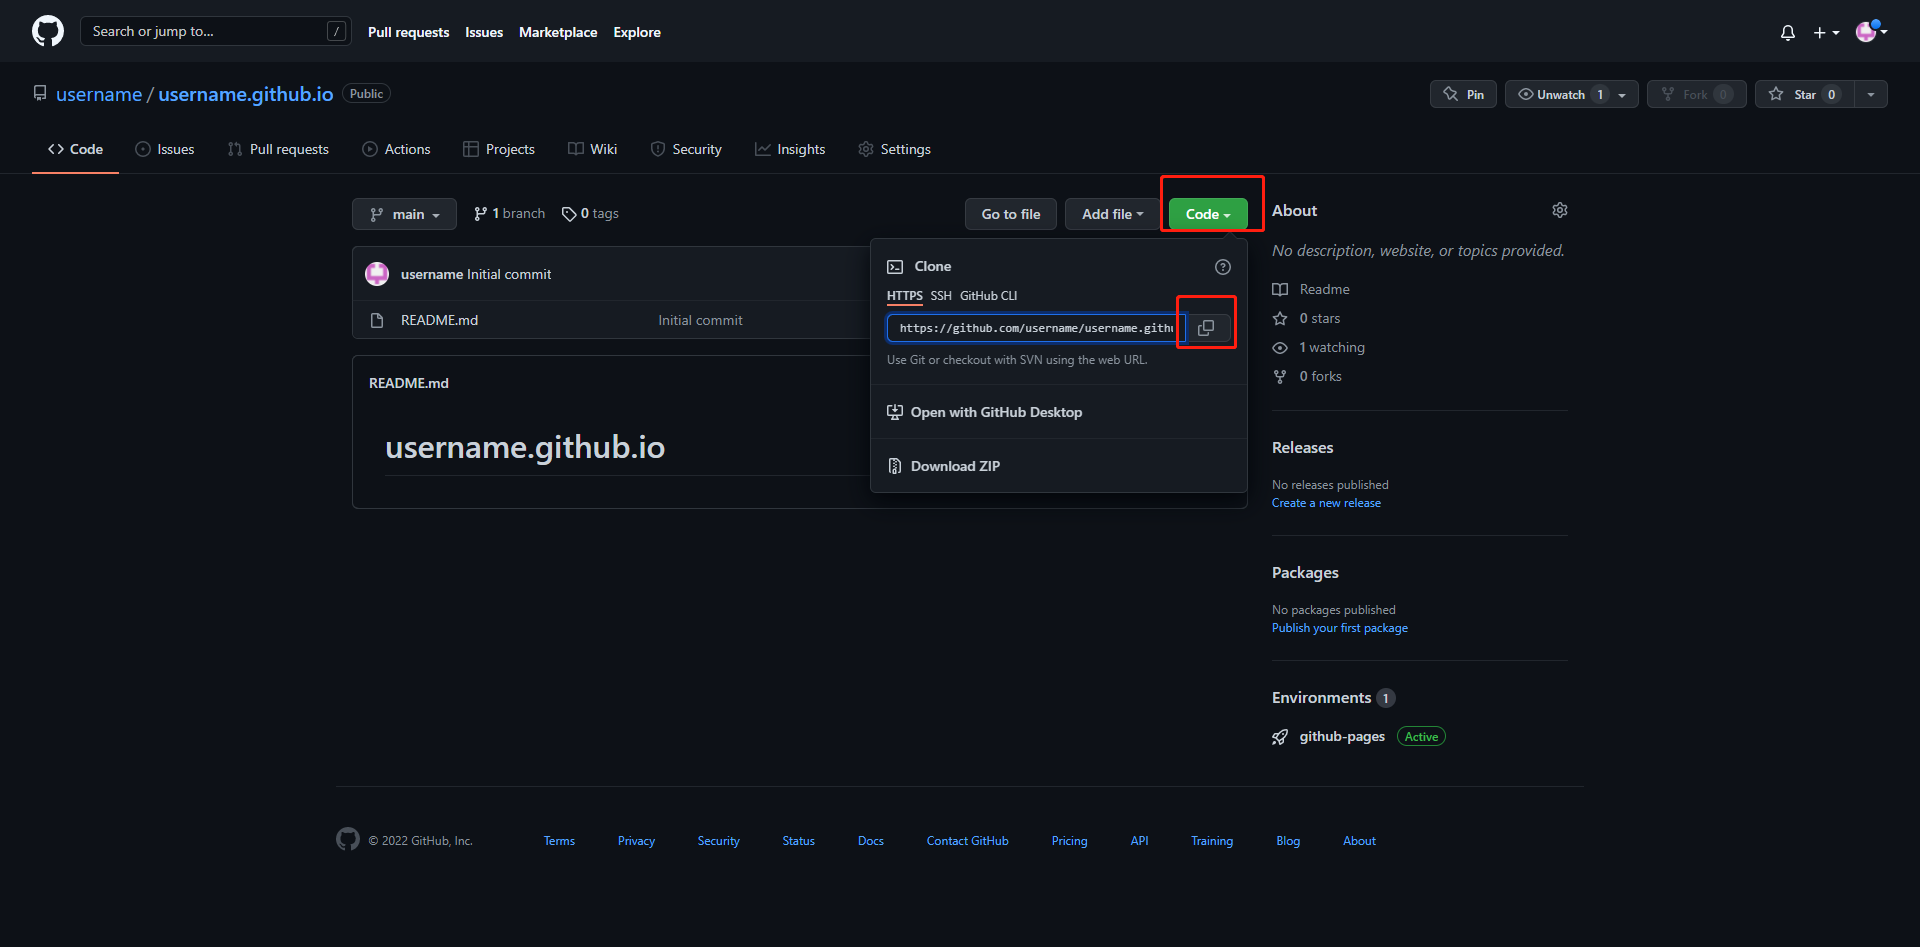
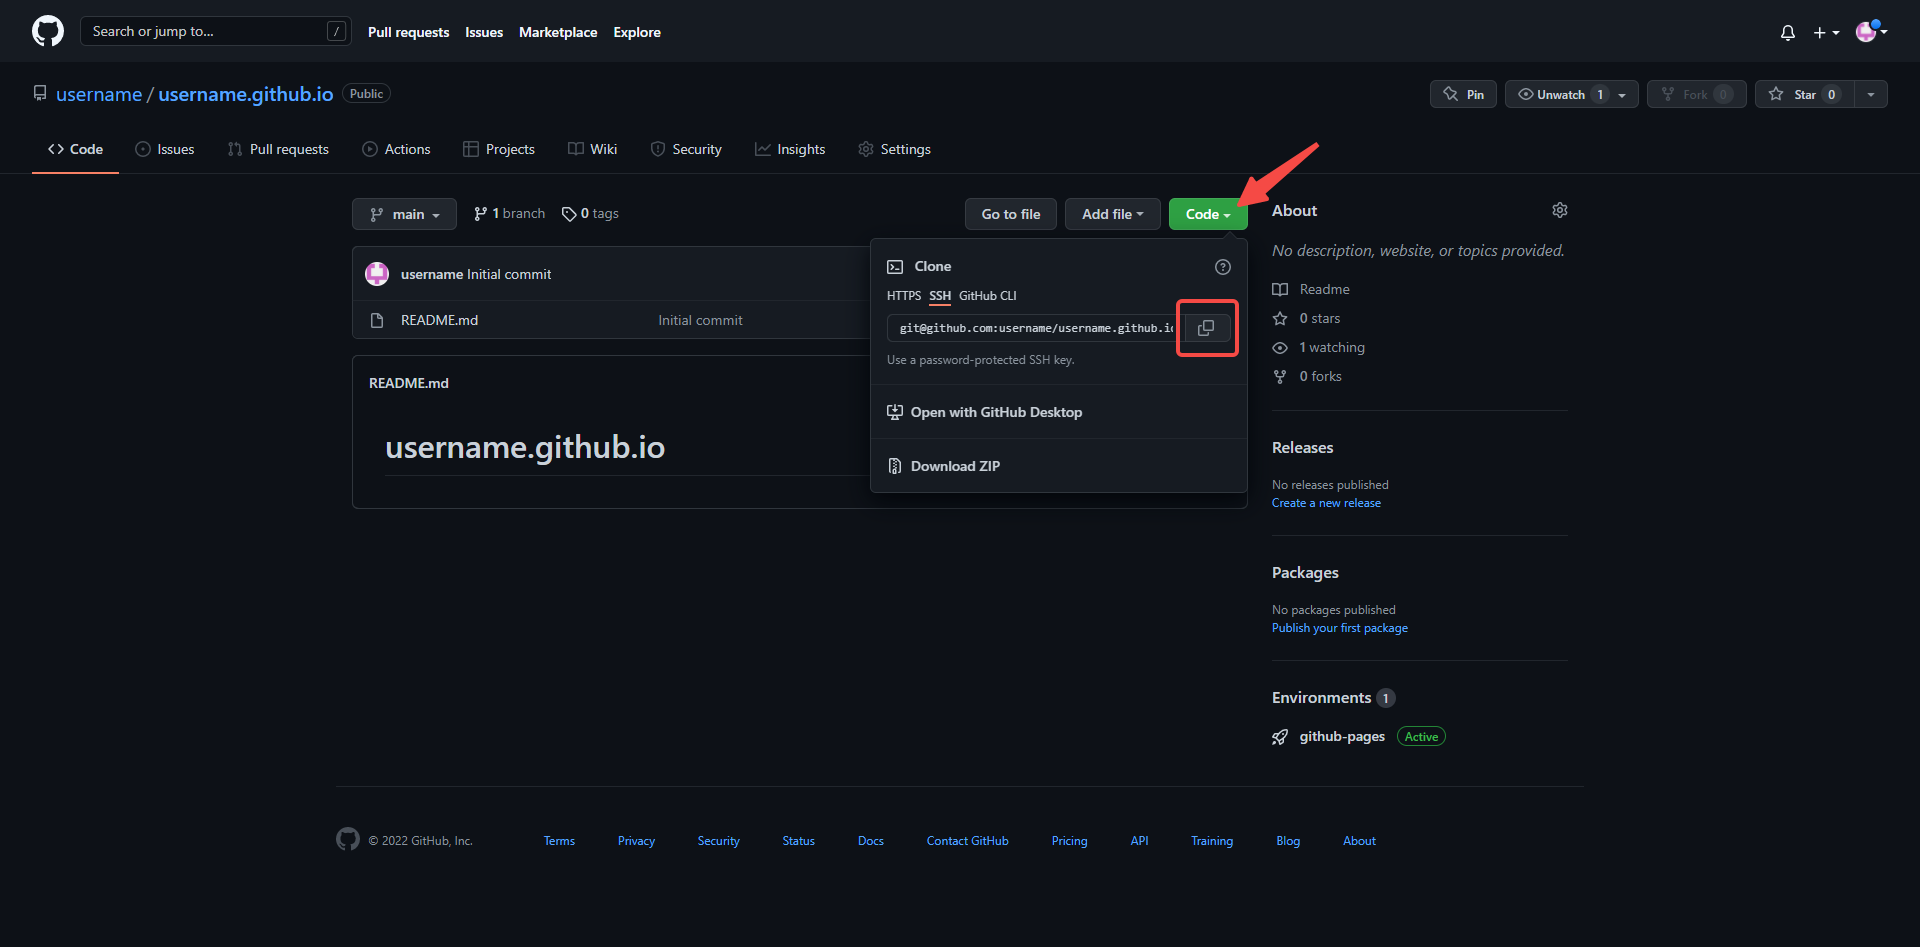
change

Changed region(s): [[0.4688, 0.3062, 0.6562, 0.3981], [0.5938, 0.1531, 0.6875, 0.245]]

diff --git a/_posts/jekyll/2022-04-04-use-jekyll-to-build-a-blog.md b/_posts/jekyll/2022-04-04-use-jekyll-to-build-a-blog.md
@@ -165,7 +165,7 @@ ssh -T git@github.com
 
 ### 使用git
 
-#### 回到主页点击左侧边栏刚刚创建的仓库，复制仓库地址链接
+#### 回到主页点击左侧边栏刚刚创建的仓库，复制仓库地址SSH链接
 
 ![1649041409(1)](/styles/images/use-jekyll-to-build-blog/1649041409(1).jpg)
 
@@ -174,7 +174,7 @@ ssh -T git@github.com
 **输入命令将此项目clone到本地，后面的仓库地址替换掉**
 
 ```sh
-git clone https://github.com/username/username.github.io.git
+git clone git@github.com:username/username.github.io.git
 ```
 
 #### 打开clone下来的仓库目录，右键新建一个文件，随便写几个字
@@ -197,7 +197,7 @@ git add xx.txt
 git status
 ```
 
-提交
+提交本地仓库
 
 ```sh
 git commit -m "注释"
@@ -244,7 +244,7 @@ ruby -v
 gem -v
 ```
 
-~~修改gem镜像源~~
+#### ~~修改gem镜像源~~
 
 - 淘宝镜像源：https://ruby.taobao.org/
 - 其他：https://gems.ruby-china.org/
